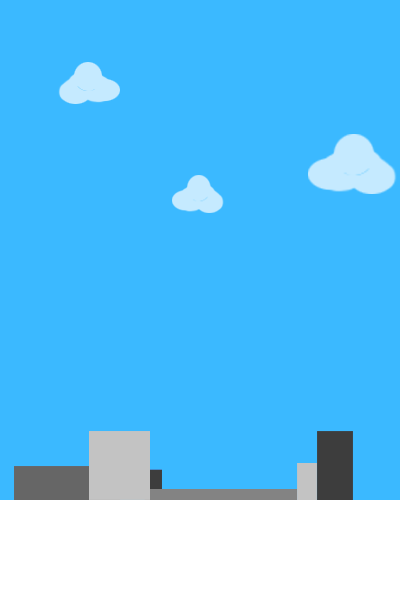
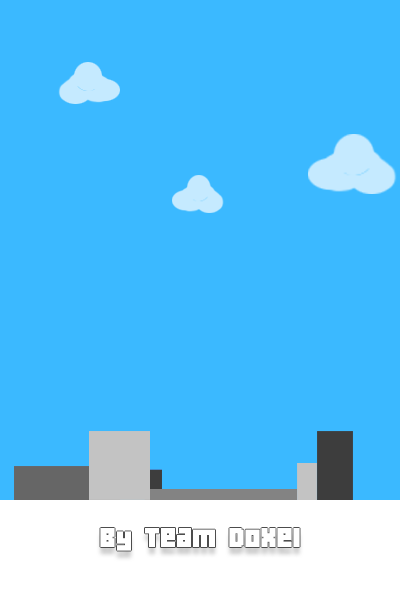
Main menu, team doxel bug not fix

Changed region(s): [[0.57, 0.87, 0.75, 0.93], [0.36, 0.87, 0.54, 0.93], [0.24, 0.87, 0.33, 0.93]]

diff --git a/src/Game.java b/src/Game.java
@@ -26,16 +26,21 @@ public class Game extends Applet implements Runnable, KeyListener, MouseMotionLi
 	private boolean gameOver = false;
 	private boolean gameOverMenu = false;
 	private boolean mouseInTryAgain = false;
+	private boolean startCredit = false;
 	
 	private double backgroundX = 0;
 	private double backgroundDx = -3;
 	private URL backgroundURL;
 	private Image backgroundImage;
-	
+
 	private Bird b = new Bird();
 	private Obstacles obs = new Obstacles();
 	private Obstacles2 obs2 = new Obstacles2();
 	private Ground grd = new Ground();
+	private Menu menu = new Menu();
+	private Play play = new Play();
+	private Credit credit = new Credit();
+	private Doxel dox = new Doxel();
 	
 	public void gameOverAllow() {
 		gameOver = true;
@@ -55,11 +60,19 @@ public class Game extends Applet implements Runnable, KeyListener, MouseMotionLi
 		addMouseMotionListener(this);
 		addMouseListener(this);
 		try{
+			Doxel.url = getDocumentBase();
+			Credit.url = getDocumentBase();
+			Play.url = getDocumentBase();
 			backgroundURL = getDocumentBase();
 			Ground.groundURL = getDocumentBase();
+			Menu.menuURL = getDocumentBase();
 		}catch (Exception e){
 			
 		}
+		Doxel.image = getImage(Doxel.url, "images/teamdoxel.png");
+		Credit.image = getImage(Play.url, "images/credit.png");
+		Play.image = getImage(Play.url, "images/play.png");
+		Menu.menuImage = getImage(Menu.menuURL, "images/menu.png");
 		backgroundImage = getImage(backgroundURL, "images/Background.png");
 		Ground.groundImage = getImage(Ground.groundURL, "images/Ground.png");
 	}
@@ -83,10 +96,12 @@ public class Game extends Applet implements Runnable, KeyListener, MouseMotionLi
 						if(backgroundX + this.getWidth() < 0 ){
 							backgroundX = 0;
 						}
+					}else{
+						grd.setGroundDx(0);
 					}	
 				}
-				grd.update(this, b);
-			}	
+			}
+			grd.update(this, b);
 			//setting frame rate
 			try {
 				Thread.sleep(17);
@@ -116,22 +131,19 @@ public class Game extends Applet implements Runnable, KeyListener, MouseMotionLi
 		g.drawImage(backgroundImage, (int)backgroundX, 0, this);
 		g.drawImage(backgroundImage, (int)backgroundX + this.getWidth(), 0, this);
 		if(startMenu){
-			Font font1 = new Font("Impact", Font.BOLD, 70);
-			g.setFont(font1);
-			g.setColor(Color.BLACK);
-			g.drawString("FLAPPY FACE", 13, 103);
-			g.setColor(Color.GREEN);
-			g.drawString("FLAPPY FACE", 10, 100);
 			//play button
-			g.setColor(Color.BLACK);
-			g.fillRect(120, 280, 160, 80);
-			Font font4 = new Font("Impact", Font.BOLD, 70);
-			g.setFont(font4);
-			g.setColor(Color.WHITE);
-			g.drawString("PLAY", 130, 350);
+			menu.paint(g, this);
+			play.paint(g, this);
+			credit.paint(g, this);
+			dox.paint(g, this);
 			if(mouseInPlay){
+				play.setY(5);	
 				g.setColor(Color.RED);
-				g.drawString("PLAY", 130, 350);
+			}else if(startCredit){
+				credit.setY(5);
+			}else{
+				play.setY(0);
+				credit.setY(0);
 			}
 		}else{
 			String currentScore = Integer.toString(score);
@@ -154,7 +166,7 @@ public class Game extends Applet implements Runnable, KeyListener, MouseMotionLi
 				g.setColor(Color.BLACK);
 				Font font3 = new Font("Impact", Font.PLAIN, 20);
 				g.setFont(font3);
-				g.drawString("'spacebar' to fly", 190, 230);
+				g.drawString("'spacebar' to fly", 190, 330);
 			}		
 			//game over menu
 			if(gameOverMenu){
@@ -183,8 +195,8 @@ public class Game extends Applet implements Runnable, KeyListener, MouseMotionLi
 			}
 		}
 		//bird and ground are always painted
-		b.paint(g);
 		grd.paint(g, this);
+		b.paint(g);
 	}
 	
 	public void keyPressed(KeyEvent e) {
@@ -198,23 +210,22 @@ public class Game extends Applet implements Runnable, KeyListener, MouseMotionLi
 	}
 
 	public void mouseMoved(MouseEvent e) {
-		if(e.getX() > 120 && e.getX() < 295){
-			if(e.getY() > 310 && e.getY() < 365){
+		if(e.getX() > 40 && e.getX() < 180 && e.getY() > 363 && e.getY() < 418){
 				mouseInTryAgain = true;
 			}else{
 				mouseInTryAgain = false;
 			}
-		}else{
-			mouseInTryAgain = false;
-		}
-		if(e.getX() > 120 && e.getX() < 280){
-			if(e.getY() > 280 && e.getY() < 360){
+		
+		if(e.getX() > 40 && e.getX() < 180 && e.getY() > 363 && e.getY() < 418){
 				mouseInPlay = true;
 			}else{
 				mouseInPlay = false;
 			}
+		
+		if(e.getX() > 200 && e.getX() < 380 && e.getY() > 363 && e.getY() < 418){
+			startCredit = true;
 		}else{
-			mouseInPlay = false;
+			startCredit = false;
 		}
 	}
 

diff --git a/src/Ground.java b/src/Ground.java
@@ -6,13 +6,21 @@ import java.net.URL;
 public class Ground {
 	
 	private int groundX = 0;
-	private int groundY = 500;
+	private int groundY = 498;
 	private int groundDx = -3;
 	private int groundWidth = 400;
 	
 	public static URL groundURL;
-	public static Image groundImage;
-			
+	public static Image groundImage;		
+	
+	public int getGroundDx() {
+		return groundDx;
+	}
+
+	public void setGroundDx(int groundDx) {
+		this.groundDx = groundDx;
+	}
+
 	public int getGroundY() {
 		return groundY;
 	}

diff --git a/src/Credit.java b/src/Credit.java
@@ -1,0 +1,29 @@
+import java.awt.Graphics;
+import java.awt.Image;
+import java.net.URL;
+
+public class Credit {
+	private int x, y, width;
+	public static URL url;
+	public static Image image; 
+	
+	public int getY() {
+		return y;
+	}
+
+	public void setY(int y) {
+		this.y = y;
+	}
+
+	public Credit() {
+		x = 0;
+		y = 0;
+	}
+	
+	public void paint(Graphics g, Game gm){
+		width = gm.getWidth();
+		g.drawImage(image, x, y, gm);
+		g.drawImage(image, x + width, y, gm);
+	}
+
+}

diff --git a/src/Play.java b/src/Play.java
@@ -1,0 +1,29 @@
+import java.awt.Graphics;
+import java.awt.Image;
+import java.net.URL;
+
+public class Play {
+	private int x, y, width;
+	public static URL url;
+	public static Image image; 
+	
+	public int getY() {
+		return y;
+	}
+
+	public void setY(int y) {
+		this.y = y;
+	}
+
+	public Play() {
+		x = 0;
+		y = 0;
+	}
+	
+	public void paint(Graphics g, Game gm){
+		width = gm.getWidth();
+		g.drawImage(image, x, y, gm);
+		g.drawImage(image, x + width, y, gm);
+	}
+
+}

diff --git a/src/Menu.java b/src/Menu.java
@@ -1,0 +1,21 @@
+import java.awt.Graphics;
+import java.awt.Image;
+import java.net.URL;
+
+public class Menu {
+	private int menuX, menuY, menuWidth;
+	public static URL menuURL;
+	public static Image menuImage; 
+	
+	public Menu() {
+		menuX = 0;
+		menuY = 0;
+	}
+	
+	public void paint(Graphics g, Game gm){
+		menuWidth = gm.getWidth();
+		g.drawImage(menuImage, menuX, menuY, gm);
+		g.drawImage(menuImage, menuX + menuWidth, menuY, gm);
+	}
+
+}

diff --git a/src/Doxel.java b/src/Doxel.java
@@ -1,0 +1,21 @@
+import java.awt.Graphics;
+import java.awt.Image;
+import java.net.URL;
+
+public class Doxel {
+	private int x, y, width;
+	public static URL url;
+	public static Image image; 
+	
+	public Doxel() {
+		x = 0;
+		y = 0;
+	}
+	
+	public void paint(Graphics g, Game gm){
+		width = gm.getWidth();
+		g.drawImage(image, x, y, gm);
+		g.drawImage(image, x + width, y, gm);
+	}
+
+}

diff --git a/src/Bird.java b/src/Bird.java
@@ -5,7 +5,7 @@ import java.awt.Graphics;
 public class Bird {
 	
 	private int x = 160;
-	private int y = 200;
+	private int y = 280;
 	private double dy = 0;
 	private int radius = 20;
 	private int upwardMotion = -7;
